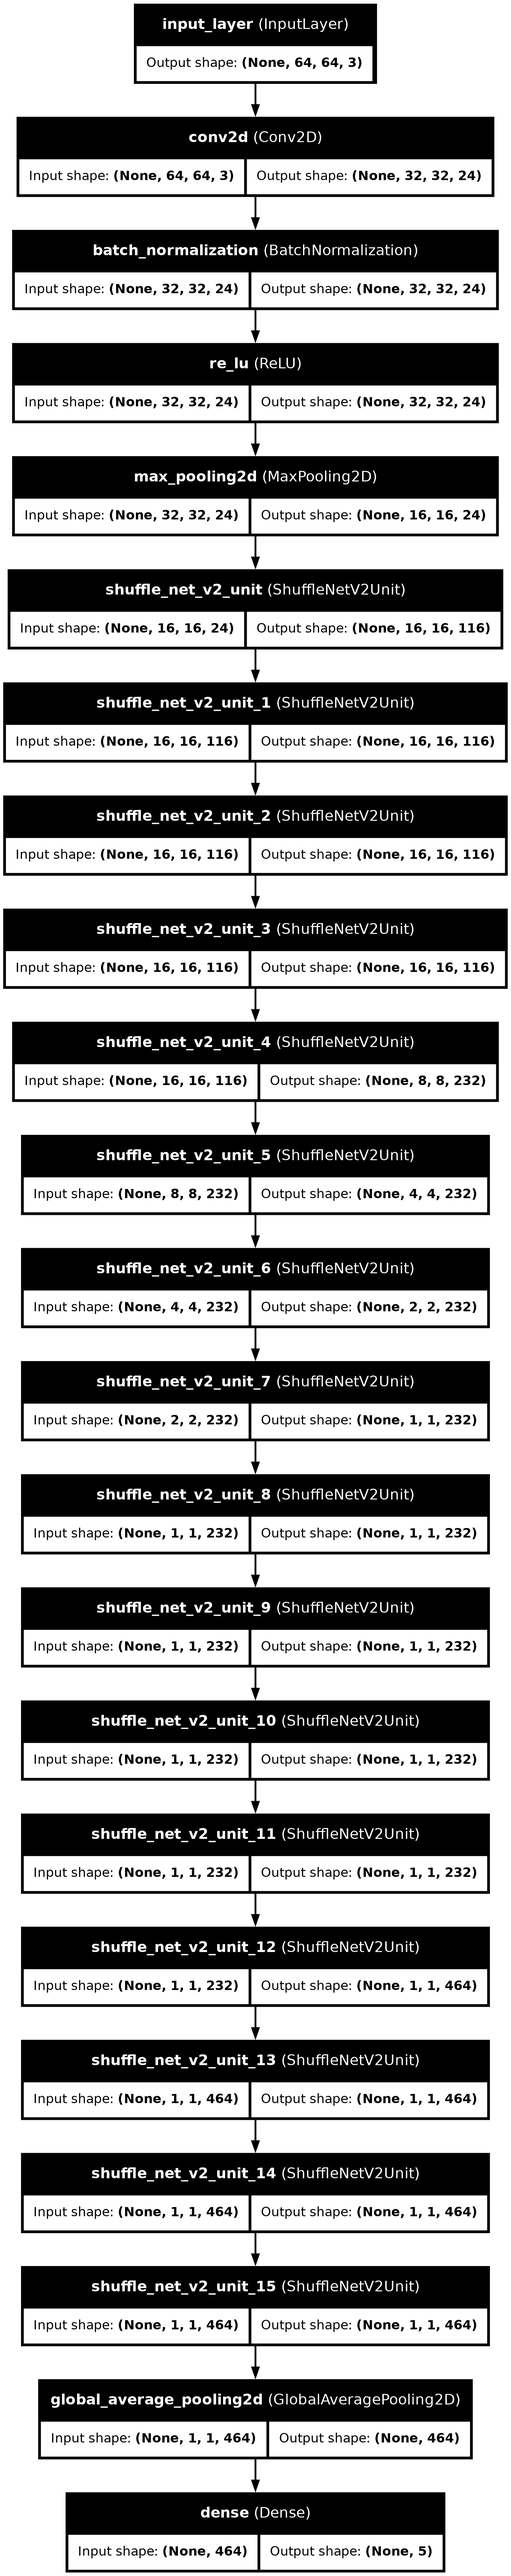
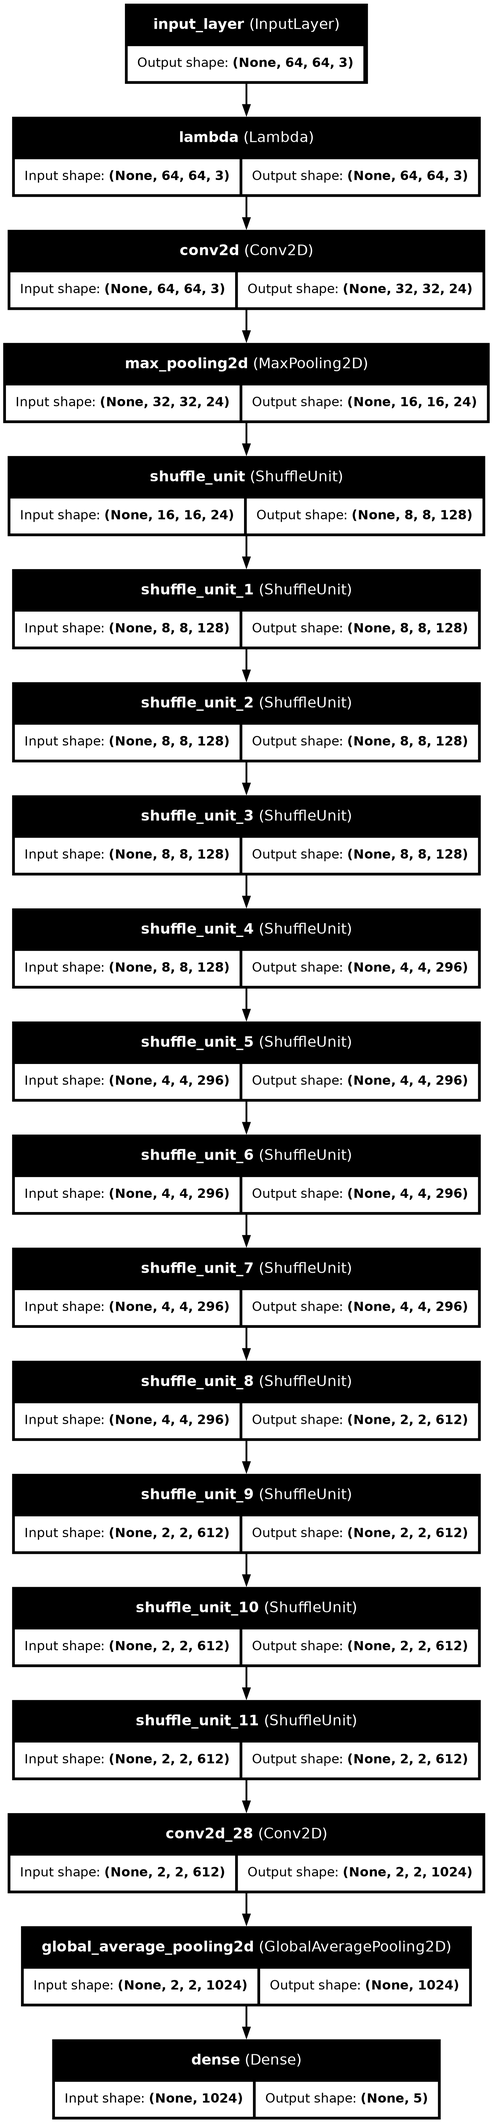
updates

diff --git a/ComputerVision/ImageClassification/SmallNetwork/ShuffleNet/ShuffleNetV2/model.py b/ComputerVision/ImageClassification/SmallNetwork/ShuffleNet/ShuffleNetV2/model.py
@@ -1,97 +1,78 @@
 import tensorflow as tf
 
-class GroupConv2D(tf.keras.layers.Layer):
-    def __init__(self, filters, kernel_size, strides=1, groups=1):
-        super(GroupConv2D, self).__init__()
-        self.filters = filters
-        self.kernel_size = kernel_size
-        self.strides = strides
-        self.groups = groups
-        self.convs = []
-
-    def build(self, input_shape):
-        input_channels = input_shape[-1]
-        self.group_filters = self.filters // self.groups
-        for _ in range(self.groups):
-            self.convs.append(tf.keras.layers.Conv2D(self.group_filters, self.kernel_size, strides=self.strides, padding='same', activation=None, use_bias=False))
-
-    def call(self, x):
-        group_list = tf.split(x, num_or_size_splits=self.groups, axis=-1)
-        group_convs = [conv(group) for conv, group in zip(self.convs, group_list)]
-        return tf.keras.layers.Concatenate()(group_convs)
-
 class ChannelShuffle(tf.keras.layers.Layer):
-    def __init__(self, num_groups):
-        super(ChannelShuffle, self).__init__()
+    def __init__(self, num_groups, **kwargs):
+        super().__init__(**kwargs)
         self.num_groups = num_groups
 
-    def call(self, x):
-        if self.num_groups == 1:
-            return x
-        batch_size = tf.shape(x)[0]
-        height, width, channels = tf.shape(x)[1], tf.shape(x)[2], tf.shape(x)[3]
-        group_size = channels // self.num_groups
-        x = tf.reshape(x, [batch_size, height, width, self.num_groups, group_size])
-        x = tf.transpose(x, [0, 1, 2, 4, 3])
-        x = tf.reshape(x, [batch_size, height, width, channels])
-        return x
+    def call(self, inputs):
+        batch_size, height, width, channels = tf.unstack(tf.shape(inputs))
+        group_channels = channels // self.num_groups
+        inputs = tf.reshape(inputs, [batch_size, height, width, self.num_groups, group_channels])
+        inputs = tf.transpose(inputs, [0, 1, 2, 4, 3])
+        return tf.reshape(inputs, [batch_size, height, width, channels])
 
-
-class ShuffleNetV2Unit(tf.keras.layers.Layer):
-    def __init__(self, out_channels, stride):
-        super(ShuffleNetV2Unit, self).__init__()
+class ShuffleUnit(tf.keras.layers.Layer):
+    def __init__(self, out_channels, stride, groups, left_ratio, spatial_down, **kwargs):
+        super().__init__(**kwargs)
         self.out_channels = out_channels
         self.stride = stride
-        self.mid_channels = max(2, out_channels // 2)  # Ensure mid_channels is even
-        self.ensure_even_channels = tf.keras.layers.Conv2D(self.out_channels + (self.out_channels % 2), (1, 1), padding='same', use_bias=False)
+        self.groups = groups
+        self.left_ratio = left_ratio
+        self.spatial_down = spatial_down
+        self.depthwise = tf.keras.layers.DepthwiseConv2D(kernel_size=3, strides=self.stride, padding='same')
+        self.channel_shuffle = ChannelShuffle(self.groups)
 
-    def call(self, x):
-        x = self.ensure_even_channels(x)  # Ensure even number of channels
-        if self.stride == 1:
-            left, right = tf.split(x, num_or_size_splits=2, axis=-1)
-            right = tf.keras.layers.Conv2D(self.mid_channels, (1, 1), padding='same', use_bias=False)(right)
-            right = tf.keras.layers.BatchNormalization()(right)
-            right = tf.keras.layers.ReLU()(right)
-            right = tf.keras.layers.DepthwiseConv2D((3, 3), strides=1, padding='same', use_bias=False)(right)
-            right = tf.keras.layers.BatchNormalization()(right)
-            right = tf.keras.layers.Conv2D(self.mid_channels, (1, 1), padding='same', use_bias=False)(right)
-            right = tf.keras.layers.BatchNormalization()(right)
-            x = tf.keras.layers.Concatenate()([left, right])
+    def build(self, input_shape):
+        depth_in = input_shape[-1]
+        depth_left = int(depth_in * self.left_ratio)
+        depth_right = depth_in - depth_left
+
+        if self.spatial_down:
+            self.shortcut = tf.keras.Sequential([
+                tf.keras.layers.DepthwiseConv2D(kernel_size=3, strides=self.stride, padding='same'),
+                tf.keras.layers.Conv2D(self.out_channels, kernel_size=1, padding='same', activation=None)
+            ])
         else:
-            left = tf.keras.layers.DepthwiseConv2D((3, 3), strides=self.stride, padding='same', use_bias=False)(x)
-            left = tf.keras.layers.BatchNormalization()(left)
-            left = tf.keras.layers.Conv2D(self.mid_channels, (1, 1), padding='same', use_bias=False)(left)
-            left = tf.keras.layers.BatchNormalization()(left)
-            right = tf.keras.layers.Conv2D(self.mid_channels, (1, 1), padding='same', use_bias=False)(x)
-            right = tf.keras.layers.BatchNormalization()(right)
-            right = tf.keras.layers.ReLU()(right)
-            right = tf.keras.layers.DepthwiseConv2D((3, 3), strides=self.stride, padding='same', use_bias=False)(right)
-            right = tf.keras.layers.BatchNormalization()(right)
-            right = tf.keras.layers.Conv2D(self.mid_channels, (1, 1), padding='same', use_bias=False)(right)
-            right = tf.keras.layers.BatchNormalization()(right)
-            x = tf.keras.layers.Concatenate()([left, right])
-        return ChannelShuffle(2)(x)
+            self.shortcut = lambda x: x[:, :, :, :depth_left]
 
-def shufflenet_v2_model(input_shape=(224, 224, 3), num_classes=1000):
-    inputs = tf.keras.layers.Input(shape=input_shape)
-    x = tf.keras.layers.Conv2D(24, (3, 3), strides=2, padding='same', use_bias=False)(inputs)
-    x = tf.keras.layers.BatchNormalization()(x)
-    x = tf.keras.layers.ReLU()(x)
-    x = tf.keras.layers.MaxPooling2D(pool_size=(3, 3), strides=2, padding='same')(x)
+        self.residual_1x1 = tf.keras.layers.Conv2D(depth_right, kernel_size=1, padding='same', activation=None)
+        self.residual_depthwise = tf.keras.layers.DepthwiseConv2D(kernel_size=3, strides=self.stride, padding='same')
+        self.residual_1x1_out = tf.keras.layers.Conv2D(depth_right, kernel_size=1, padding='same', activation=None)
+
+    def call(self, inputs):
+        shortcut = self.shortcut(inputs)
+        residual = self.residual_1x1(inputs)
+        residual = self.residual_depthwise(residual)
+        residual = self.residual_1x1_out(residual)
+        output = tf.concat([shortcut, residual], axis=-1)
+        return self.channel_shuffle(output)
+
+
+def shufflenet_v2_model(input_shape, num_classes, depth_multiplier=1.0):
+    depths_dict = {0.5: (48, 96, 192, 1024),
+                   1.0: (116, 232, 464, 1024),
+                   1.5: (176, 352, 704, 1024),
+                   2.0: (244, 488, 976, 2048)}
+    depths = depths_dict[depth_multiplier]
     
-    for _ in range(4):
-        x = ShuffleNetV2Unit(116, 1)(x)
-    for _ in range(8):
-        x = ShuffleNetV2Unit(232, 2)(x)
-    for _ in range(4):
-        x = ShuffleNetV2Unit(464, 2)(x)
+    inputs = tf.keras.Input(shape=input_shape)
+    x = tf.keras.layers.Lambda(lambda x: x/255.0)(inputs)
+    x = tf.keras.layers.Conv2D(24, 3, strides=2, padding='same', activation='relu')(x)
+    x = tf.keras.layers.MaxPool2D(pool_size=3, strides=2, padding='same')(x)
     
+    for depth in depths[:-1]:
+        x = ShuffleUnit(depth, 2, 2, 0.5, True)(x)
+        for _ in range(3):
+            x = ShuffleUnit(depth, 1, 2, 0.5, False)(x)
+    
+    x = tf.keras.layers.Conv2D(depths[-1], 1, padding='same', activation='relu')(x)
     x = tf.keras.layers.GlobalAveragePooling2D()(x)
-    x = tf.keras.layers.Dense(num_classes, activation='softmax')(x)
+    if num_classes:
+        x = tf.keras.layers.Dense(num_classes, activation='softmax')(x)
     
-    return tf.keras.Model(inputs=inputs, outputs=x)
+    return tf.keras.Model(inputs, x)
 
 if __name__ == "__main__":
-    # Example usage
-    model = shufflenet_v2_model(input_shape=(224, 224, 3), num_classes=1000)
+    model = shufflenet_v2_model((224, 224, 3), 1000)
     model.summary()

diff --git a/ComputerVision/ImageClassification/SmallNetwork/ShuffleNet/ShuffleNetV2/train_and_test.py b/ComputerVision/ImageClassification/SmallNetwork/ShuffleNet/ShuffleNetV2/train_and_test.py
@@ -15,7 +15,7 @@ def main():
                         help='GPU number')
     parser.add_argument('--type', type=str, default='cifar10',
                         help='Dataset type', choices=['cifar10', 'fashion_mnist',
-                           'mnist',  'cifar100', 'skin_cancer', 'cassava_leaf_disease', 'chest_xray', 'crop_disease'])
+                                                      'mnist',  'cifar100', 'skin_cancer', 'cassava_leaf_disease', 'chest_xray', 'crop_disease'])
     args = parser.parse_args()
     physical_devices = tf.config.experimental.list_physical_devices('GPU')
     for device in physical_devices:
@@ -37,8 +37,10 @@ def main():
 
     train_ds, validation_ds, test_ds, num_classes, channels = dataset.load_data(
         args.type)
-    strategy = tf.distribute.MirroredStrategy(cross_device_ops=tf.distribute.NcclAllReduce())
-    print(f'Training on dataset {args.type} with {strategy.num_replicas_in_sync} devices')
+    strategy = tf.distribute.MirroredStrategy(
+        cross_device_ops=tf.distribute.NcclAllReduce())
+    print(
+        f'Training on dataset {args.type} with {strategy.num_replicas_in_sync} devices')
 
     with strategy.scope():
         model = model_fn(input_shape=(
@@ -51,7 +53,7 @@ def main():
         )
     model.summary(expand_nested=True)
     tf.keras.utils.plot_model(
-        model, to_file=model_fn.__name__+'.png',show_shapes=True, show_layer_names=True)
+        model, to_file=model_fn.__name__+'.png', expand_nested=True, show_shapes=True, show_layer_names=True)
     model.fit(train_ds, validation_data=validation_ds,
               epochs=EPOCHS, callbacks=callbacks)
     model.evaluate(test_ds)
